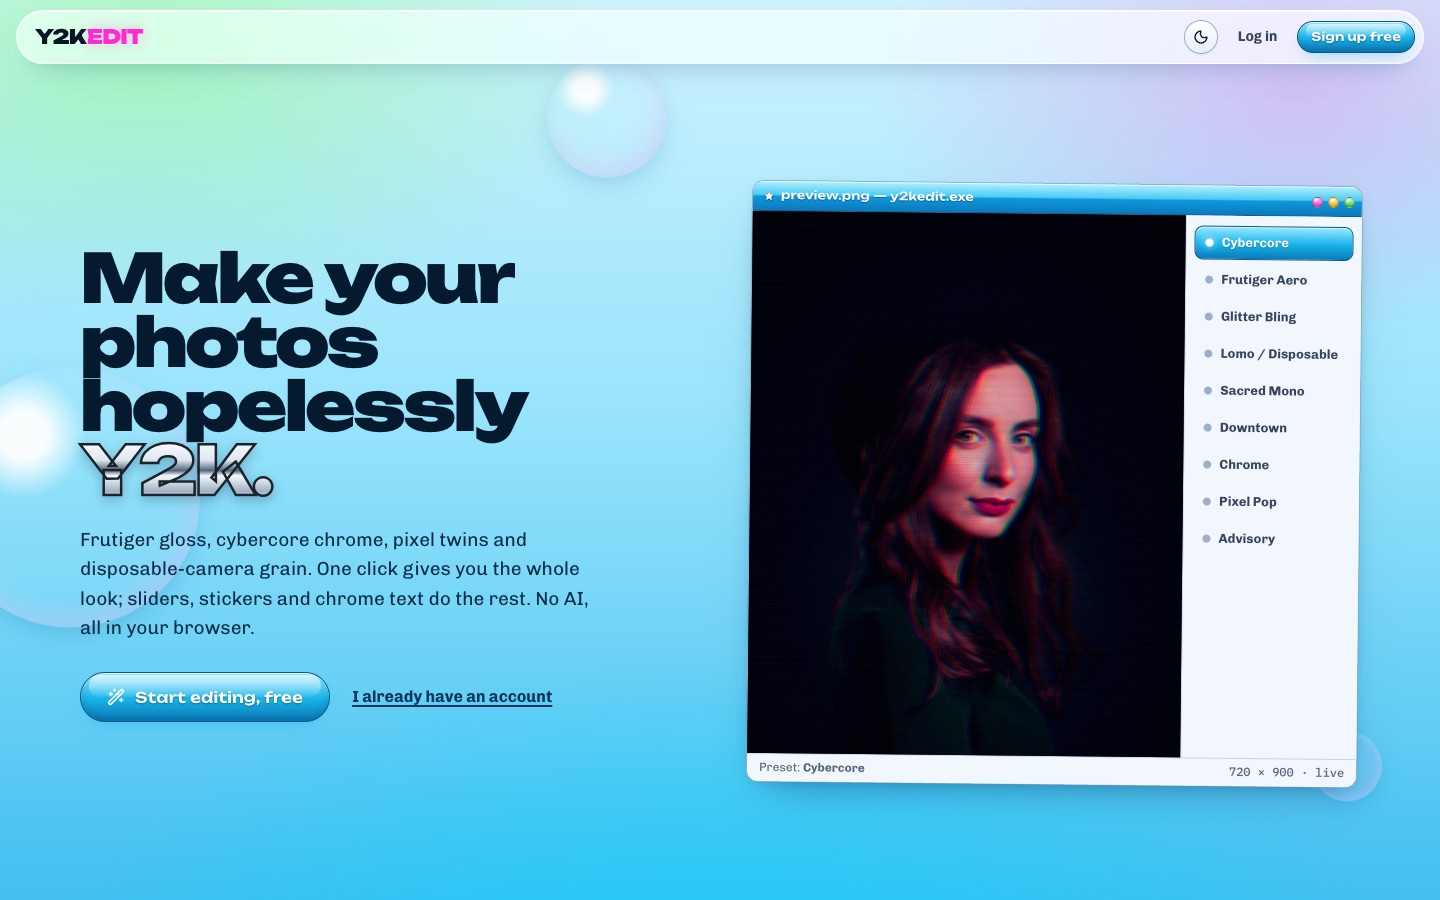
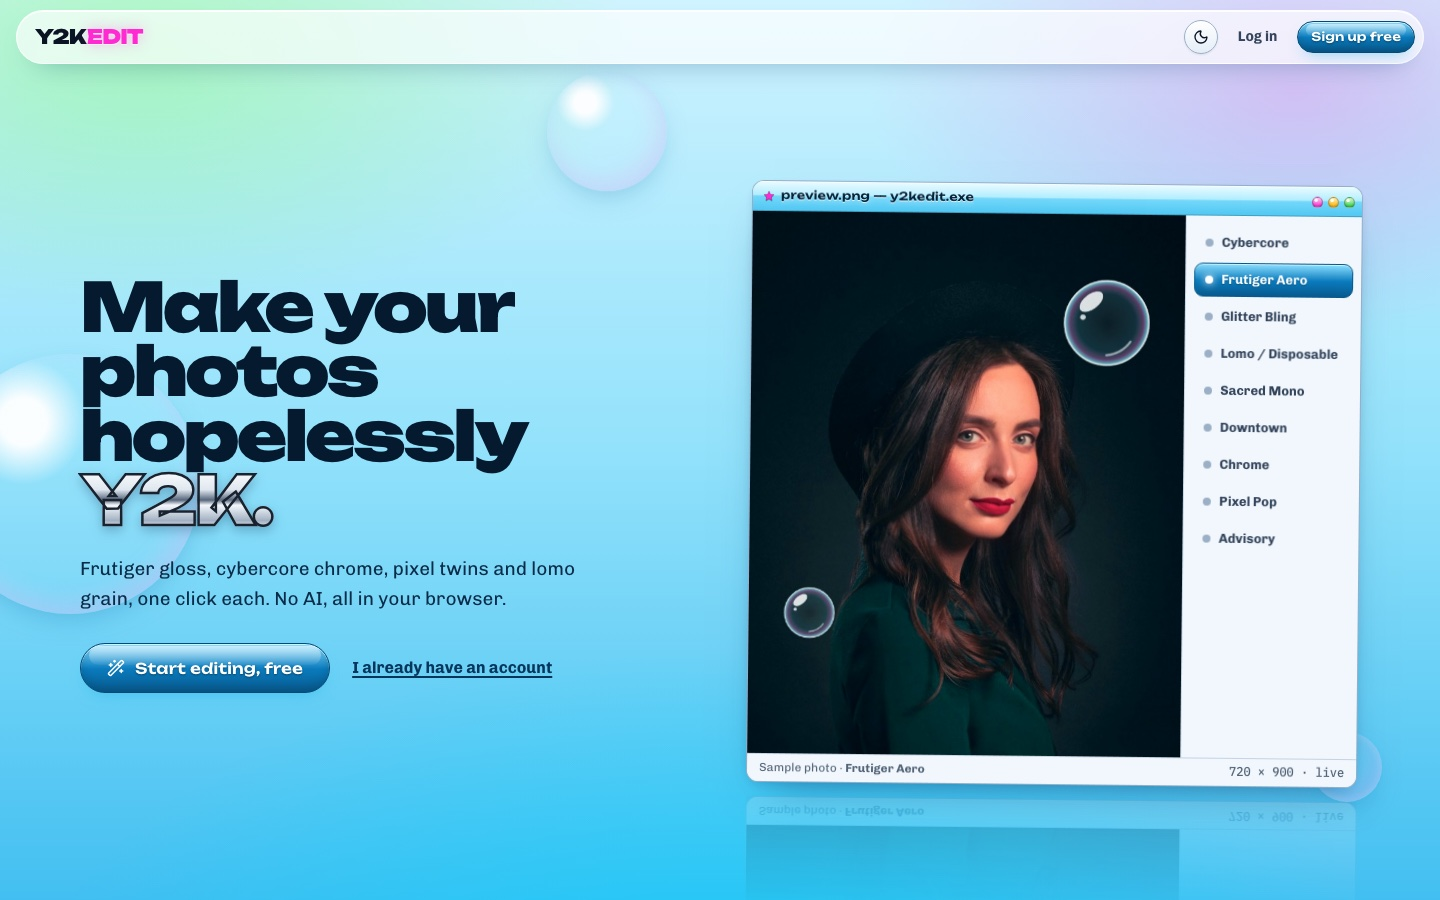
README: new screenshots and the blur sliders
Retakes the landing, editor and phone screenshots with the current
build and adds the gallery and a close-up of the new blur sliders.
Mentions the blur sliders in the feature list and corrects counts that
were out of date: 48 SVG and 7 PNG stickers (50 drawn for this
version), and the eight Google Fonts now loaded.

diff --git a/README.md b/README.md
@@ -6,13 +6,15 @@ No AI: every look is plain canvas maths running in your browser, and your photo 
 
 ![Landing page with the live preset reel](docs/landing.jpg)
 
-![The editor: presets rendered from your own photo, the canvas, stickers and layer properties](docs/editor.jpg)
+![The editor with the Star Girl look: a pixelated twin, doodle stars and stickers. Presets on the left are rendered from your own photo](docs/editor.jpg)
+
+![The gallery: saved edits with re-edit, download, share and delete](docs/gallery.jpg)
 
 ## Features
 
 - **29 presets** that each set filters, a layout and their own stickers or text. Sixteen are modelled on icon-edit pins: Old iPhone, Midnight, Night Flash, Night Blur, Washed Out, Noir Twin, Ember, Camcorder, Golden Grain, Under Arrest, Swag, Whatever, Star Girl, Scrapbook, Hotter than Hell, Soft Advisory. The originals are still there: Original, Icon Twin, Downtown, Sacred Mono, Pixel Pop, Advisory, Grunge B&W, Is this Illegal?, Frutiger Aero, Cybercore, Glitter Bling, Lomo / Disposable, Chrome. Every preset tile is rendered from *your* photo.
 - **Layouts:** Single, Twin, Mirror and Pixel Twin. Two-photo layouts start in a 1:1 frame (or pick Fit, 4:5 or 3:4). **Arrange** mode lets you drag each photo inside its panel, zoom it with the wheel or a pinch, and drag the divider anywhere from 25% to 75%; you can also swap sides and join the panels with a cut, a thin line or a soft fade. Rotate and flip the source photo.
-- **17 adjustments:** brightness, contrast, saturation, hue, warmth, tint, fade, sepia, grayscale, blur, pixelate, soft focus, dreamy glow, film grain, vignette, RGB split, scanlines, plus six split tones (Retro, Ember, Cinema, Midnight, Rose, Olive) and six duotones.
+- **19 adjustments:** brightness, contrast, saturation, hue, warmth, tint, fade, sepia, grayscale, blur, pixelate, soft focus, dreamy glow, film grain, vignette, RGB split, scanlines, plus six split tones (Retro, Ember, Cinema, Midnight, Rose, Olive) and six duotones. Soft focus and dreamy glow each have their own **blur** slider, tucked under the effect, that sets how far the haze or glow spreads; it switches on once the effect does.
 - **55 built-in stickers** in six groups (faces and props like a moustache, nerd glasses and dog ears; stars; exclamations and marks; gothic crosses and advisory labels; flowers and butterflies; Y2K tech), and your own uploads: the server cuts out white backgrounds (flood-filled from the edges, so white details inside the sticker survive). Admin accounts' stickers are shared with everyone.
 - **Text layers** in 15 styles (chrome, holo, neon, bubble, horror, datestamp, white, black, meme caption, glitter, VHS, echo, tooltip, chat bubble, speech bubble) and 9 fonts.
 - **Undo / redo** and keyboard shortcuts (`⌘Z`, `⇧⌘Z`, `⌘S`, `⌘D`, `⌫`, arrows, `[ ]`, `T`, `A`, `?`).
@@ -22,7 +24,11 @@ No AI: every look is plain canvas maths running in your browser, and your photo 
 - **Accounts:** sign up, login with lockout after 5 failed tries, password reset by email. Resetting a password signs out every other session.
 - Light and dark themes (follow the system, toggle to override) and a responsive layout down to phone width.
 
-<img src="docs/editor-mobile.jpg" alt="The editor on a phone" width="300" />
+<p>
+  <img src="docs/filters.png" alt="The Effects tab of filters.dll: Soft focus and Dreamy glow, each with its blur slider indented underneath" width="296" />
+  &nbsp;&nbsp;
+  <img src="docs/editor-mobile.jpg" alt="The editor on a phone" width="262" />
+</p>
 
 ## Stack
 
@@ -96,7 +102,7 @@ backend/app/        FastAPI app: config, db (Mongo + GridFS), security, images (
 backend/tests/      pytest suite
 frontend/src/editor renderer, presets, stickers, text styles, undo history, editor panels
 frontend/src/pages  landing, auth, editor, gallery, public share page
-frontend/public     stickers (17 drawn SVGs + 5 PNGs), sample photo
+frontend/public     stickers (48 SVGs + 7 PNGs), sample photo
 PRODUCT.md          who it's for and what it must keep doing
 DESIGN.md           the visual system (tokens, components, rules)
 ```
@@ -116,6 +122,6 @@ This is a ground-up rewrite of the Emergent-generated version. The original coul
 ## Credits
 
 - Sample portrait: Unsplash photo [`photo-1581841064838-a470c740e8ee`](https://images.unsplash.com/photo-1581841064838-a470c740e8ee), Unsplash License.
-- Fonts from Google Fonts: Unbounded, Chivo, IBM Plex Mono, Press Start 2P, UnifrakturCook.
+- Fonts from Google Fonts: Unbounded, Chivo, IBM Plex Mono, Press Start 2P, UnifrakturCook, Tinos, Anton, VT323.
 - Icons: [Lucide](https://lucide.dev).
-- The chrome rockstar, halftone star, dot stars, parental advisory and pixel cursor stickers come from the original Y2KEDIT build; the other 17 stickers were drawn for this version.
+- The chrome rockstar, halftone star, dot stars, parental advisory and pixel cursor stickers come from the original Y2KEDIT build; the other 50 stickers were drawn for this version.
